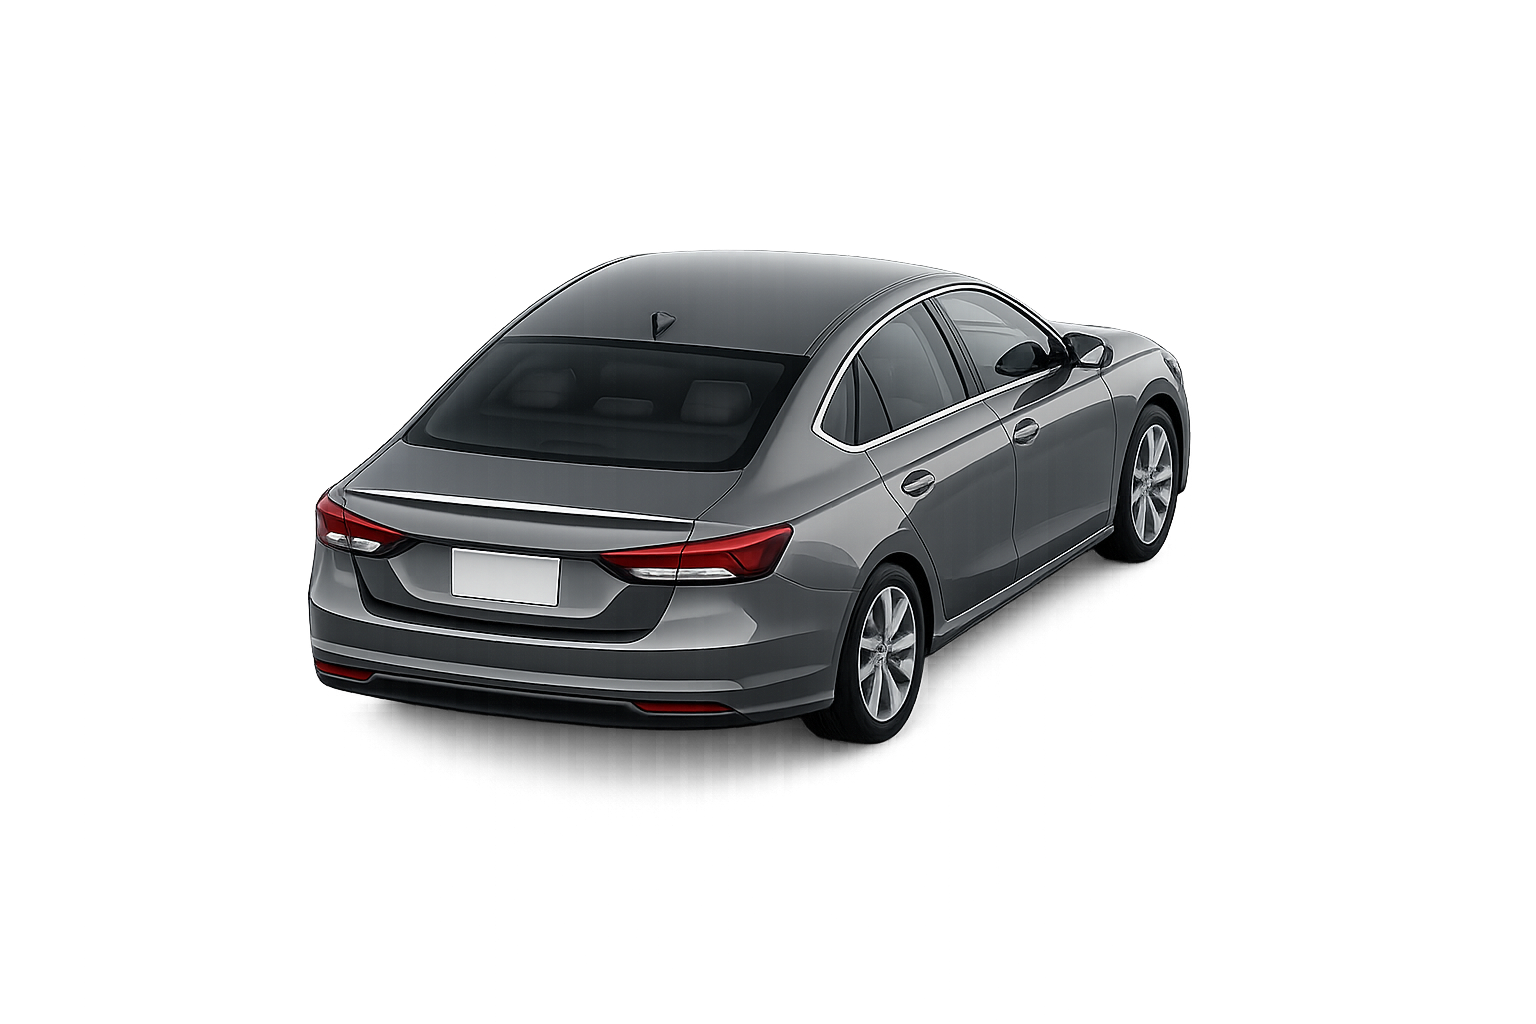
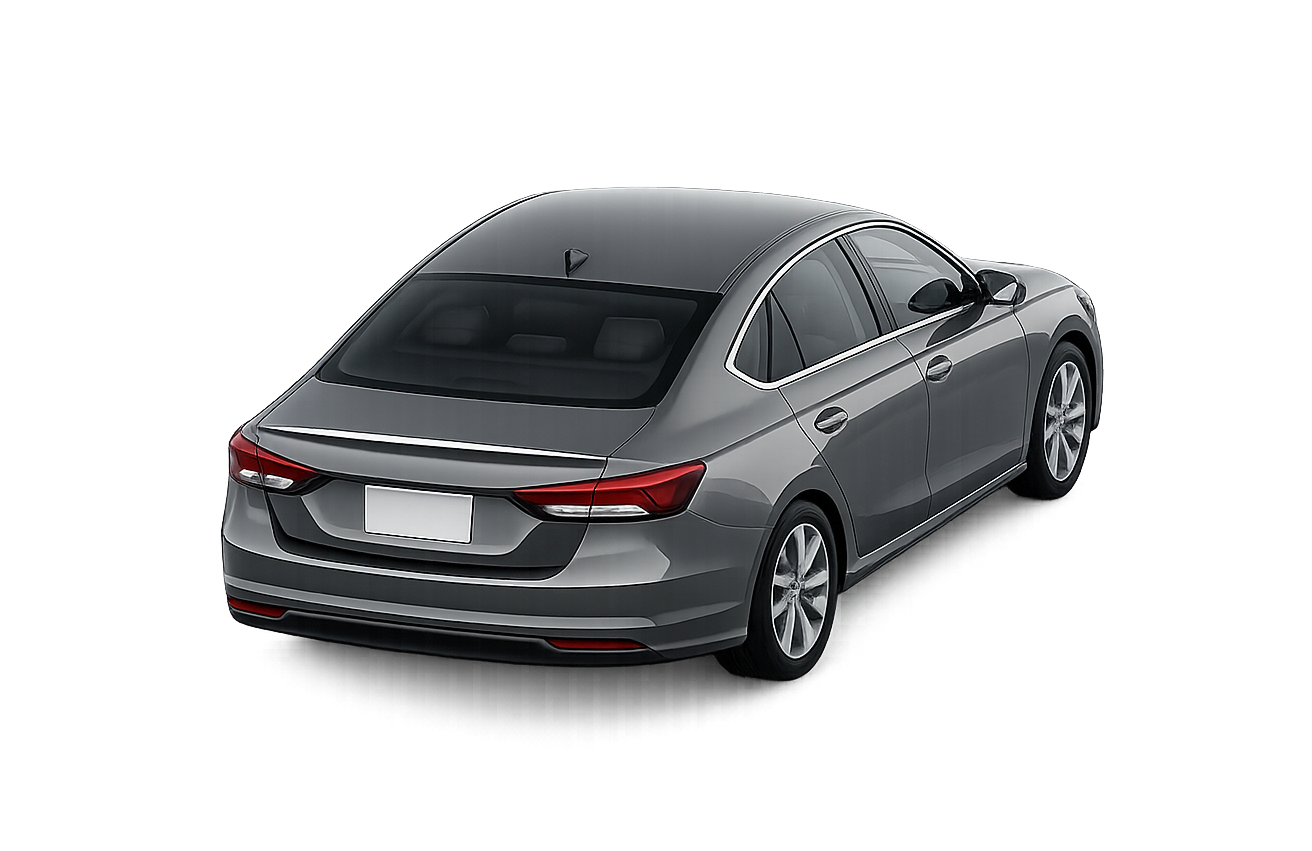
chore: hand-tuned scene geometry, plate anchors, and gray vehicle asset
Manual QA tuning pass across scene-config timing/position constants,
plate anchor overrides, and an updated gray passenger_back vehicle PNG.

Changed region(s): [[0.1562, 0.2139, 0.8438, 0.8555]]

diff --git a/apps/web/src/components/simulation/renderers/asset-realistic/plateAnchors.ts b/apps/web/src/components/simulation/renderers/asset-realistic/plateAnchors.ts
@@ -56,7 +56,7 @@ export const PLATE_ANCHORS_BY_COLOR: Record<VehicleColor, Record<DetectorPlaceme
     // Angled view from driver's side (front-left).
     driver_front: {
       xPct: 0.240, yPct: 0.678, wPct: 0.090, hPct: 0.060,
-      rotateDeg: 8, skewXDeg: 10, skewYDeg: 0, side: 'front',
+      rotateDeg: 10, skewXDeg: 10, skewYDeg: 0, side: 'front',
     },
     // Angled view from passenger's side (front-right).
     passenger_front: {
@@ -75,8 +75,8 @@ export const PLATE_ANCHORS_BY_COLOR: Record<VehicleColor, Record<DetectorPlaceme
     },
     // Angled view from passenger's side of rear face.
     passenger_back: {
-      xPct: 0.275, yPct: 0.540, wPct: 0.110, hPct: 0.070,
-      rotateDeg: 4, skewXDeg: 2, skewYDeg: 0, side: 'rear',
+      xPct: 0.275, yPct: 0.540, wPct: 0.120, hPct: 0.070,
+      rotateDeg: 5, skewXDeg: 2, skewYDeg: 0, side: 'rear',
     },
   },
 
@@ -99,11 +99,11 @@ export const PLATE_ANCHORS_BY_COLOR: Record<VehicleColor, Record<DetectorPlaceme
       rotateDeg: 0, skewXDeg: 0, skewYDeg: 0, side: 'rear',
     },
     driver_back: {
-      xPct: 0.635, yPct: 0.520, wPct: 0.092, hPct: 0.070,
-      rotateDeg: -3, skewXDeg: -3, skewYDeg: 0, side: 'rear',
+      xPct: 0.635, yPct: 0.530, wPct: 0.092, hPct: 0.070,
+      rotateDeg: -4, skewXDeg: -3, skewYDeg: 0, side: 'rear',
     },
     passenger_back: {
-      xPct: 0.265, yPct: 0.540, wPct: 0.110, hPct: 0.070,
+      xPct: 0.270, yPct: 0.550, wPct: 0.100, hPct: 0.070,
       rotateDeg: 5, skewXDeg: 2, skewYDeg: 0, side: 'rear',
     },
   },
@@ -127,12 +127,12 @@ export const PLATE_ANCHORS_BY_COLOR: Record<VehicleColor, Record<DetectorPlaceme
       rotateDeg: 0, skewXDeg: 0, skewYDeg: 0, side: 'rear',
     },
     driver_back: {
-      xPct: 0.635, yPct: 0.520, wPct: 0.092, hPct: 0.070,
-      rotateDeg: -3, skewXDeg: -3, skewYDeg: 0, side: 'rear',
+      xPct: 0.630, yPct: 0.530, wPct: 0.097, hPct: 0.070,
+      rotateDeg: -4, skewXDeg: -3, skewYDeg: 0, side: 'rear',
     },
     passenger_back: {
-      xPct: 0.288, yPct: 0.540, wPct: 0.080, hPct: 0.060,
-      rotateDeg: 4, skewXDeg: 2, skewYDeg: 0, side: 'rear',
+      xPct: 0.270, yPct: 0.570, wPct: 0.100, hPct: 0.070,
+      rotateDeg: 5, skewXDeg: 2, skewYDeg: 0, side: 'rear',
     },
   },
 };

diff --git a/apps/web/src/components/simulation/renderers/asset-realistic/scene-configs/driverBack.config.ts b/apps/web/src/components/simulation/renderers/asset-realistic/scene-configs/driverBack.config.ts
@@ -36,7 +36,7 @@ export const driverBackConfig: SceneRenderConfig = {
     // stops, otherwise it collapses abruptly right as the gate opens.
     entryT:      0.84,
     gateT:       0.45,   // matches visual gate (gate.t and scene DB_GATE_T)
-    decelOffset: 0.02,
+    decelOffset: 0.04,
     // Equal to readingT on purpose — see passengerBack.config.ts's note:
     // skips the 'afterStop' phase entirely, straight to 'final' on resume.
     finalT:      0.84,
@@ -51,16 +51,16 @@ export const driverBackConfig: SceneRenderConfig = {
     rotationDeg: 6,      // same road tilt as passenger_front (copy, not mirrored)
 
     speed: {
-      initial:   { min: 0.001, max: 0.04  },
-      stopping:  { min: 0.003, max: 0.04  },
-      afterStop: { min: 0.02, max: 0.06  },   // dead value — see finalT note above
-      final:     { min: 0.12, max: 0.4   },
+      initial:   { min: 0.009, max: 0.04  },
+      stopping:  { min: 0.005, max: 0.035  },
+      afterStop: { min: 0.01, max: 0.04  },   // dead value — see finalT note above
+      final:     { min: 0.12, max: 0.3   },
     },
     carScale: {
       initial:   1.44,
       stopping:  1.40,
       atGate:    1.20,
-      afterStop: 1.9,
+      afterStop: 2,
       final:     4,   // counteract natural depth shrink during receding phase
     },
   },

diff --git a/apps/web/src/components/simulation/renderers/asset-realistic/scene-configs/passengerBack.config.ts b/apps/web/src/components/simulation/renderers/asset-realistic/scene-configs/passengerBack.config.ts
@@ -61,16 +61,16 @@ export const passengerBackConfig: SceneRenderConfig = {
     rotationDeg: -6,     // same road tilt as driver_front (mirrored road, same angle)
 
     speed: {
-      initial:   { min: 0.001, max: 0.04  },
-      stopping:  { min: 0.003, max: 0.04  },
-      afterStop: { min: 0.02, max: 0.06  },   // brief transition before final phase
-      final:     { min: 0.025, max: 0.25  },
+      initial:   { min: 0.015, max: 0.04  },
+      stopping:  { min: 0.01, max: 0.04  },
+      afterStop: { min: 0.008, max: 0.03  },   // brief transition before final phase
+      final:     { min: 0.07, max: 0.25  },
     },
     carScale: {
       initial:   1.44,
       stopping:  1.37,
       atGate:    1.10,
-      afterStop: 2.2,   // no dip — smooth ramp into final
+      afterStop: 2.1,   // no dip — smooth ramp into final
       final:     4,   // counteract natural depth shrink during receding phase
     },
   },

diff --git a/apps/web/src/components/simulation/renderers/asset-realistic/scene-configs/passengerFront.config.ts b/apps/web/src/components/simulation/renderers/asset-realistic/scene-configs/passengerFront.config.ts
@@ -51,10 +51,10 @@ export const passengerFrontConfig: SceneRenderConfig = {
     rotationDeg: 6,       // tilt to match diagonal road (mirrored sign vs driver_front's -6)
 
     speed: {
-      initial:   { min: 0.033, max: 0.30  },
-      stopping:  { min: 0.028, max: 0.38  },
-      afterStop: { min: 0.010, max: 0.030  },
-      final:     { min: 0.0005, max: 0.0008 },
+      initial:   { min: 0.09, max: 0.30  },
+      stopping:  { min: 0.08, max: 0.38  },
+      afterStop: { min: 0.008, max: 0.030  },
+      final:     { min: 0.0001, max: 0.0008 },
     },
     carScale: {
       initial:   1.4,

diff --git a/apps/web/src/components/simulation/renderers/asset-realistic/scene-configs/centerFront.config.ts b/apps/web/src/components/simulation/renderers/asset-realistic/scene-configs/centerFront.config.ts
@@ -24,10 +24,10 @@ export const centerFrontConfig: SceneRenderConfig = {
     xNear:       VP_X + INCOMING.lateral.center.xNear,  // 400
     rotationDeg: 0,
     speed: {
-      initial:   { min: 0.033, max: 0.30  },
-      stopping:  { min: 0.028, max: 0.40  },
-      afterStop: { min: 0.023, max: 0.20  },
-      final:     { min: 0.001, max: 0.008 },
+      initial:   { min: 0.050, max: 0.30  },
+      stopping:  { min: 0.050, max: 0.40  },
+      afterStop: { min: 0.050, max: 0.18  },
+      final:     { min: 0.0004, max: 0.0025 },
     },
     carScale: {
       initial:   1.1,

diff --git a/apps/web/src/components/simulation/renderers/asset-realistic/scene-configs/driverFront.config.ts b/apps/web/src/components/simulation/renderers/asset-realistic/scene-configs/driverFront.config.ts
@@ -50,10 +50,10 @@ export const driverFrontConfig: SceneRenderConfig = {
     rotationDeg: -6,      // tilt to match diagonal road
 
     speed: {
-      initial:   { min: 0.033, max: 0.30  },
-      stopping:  { min: 0.028, max: 0.38  },
-      afterStop: { min: 0.023, max: 0.060  },
-      final:     { min: 0.001, max: 0.021 },
+      initial:   { min: 0.083, max: 0.25  },
+      stopping:  { min: 0.078, max: 0.22  },
+      afterStop: { min: 0.008, max: 0.02  },
+      final:     { min: 0.0008, max: 0.006 },
     },
     carScale: {
       initial:   1.4,
